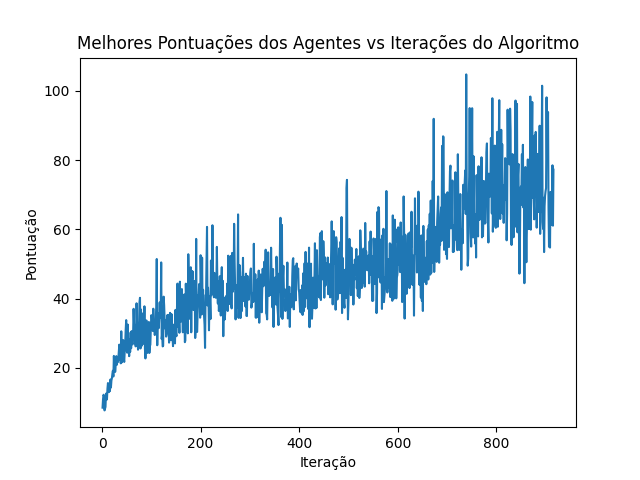
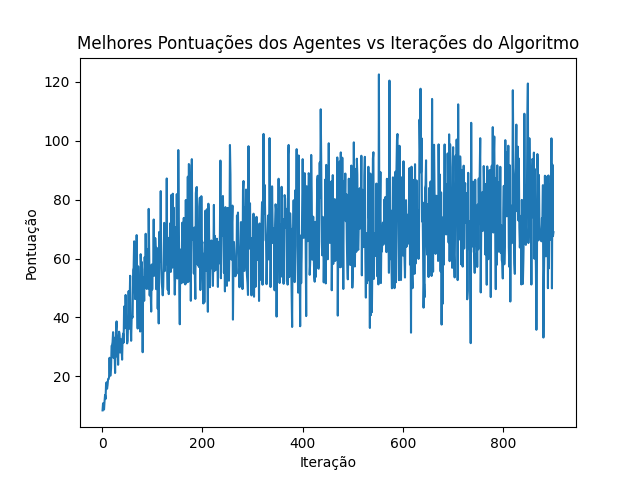
fix: Pesos da população inicializados em (-2, 2) trouxeram o melhor resultado até agora. Aproximadamente 122 de score alcançado no treino

diff --git a/batfly_algo.py b/batfly_algo.py
@@ -10,7 +10,7 @@ class BatFlyAlgorithm:
         self.population_size = population_size # Quantidade de morcegos
         self.d = d # Tamanho do array de pesos
         
-        self.solutions = np.random.uniform(-1, 1, size=(population_size, d)) # Criando vetor de soluções (100, 1475)
+        self.solutions = np.random.uniform(-2, 2, size=(population_size, d)) # Criando vetor de soluções (100, 1475)
         self.bats = np.zeros((self.population_size, self.d)) # Criando população de morcegos (100, 1475)
         self.v = np.zeros((self.population_size, self.d)) # Inicialização das velocidades dos morcegos (100, 1475)
         
@@ -26,20 +26,29 @@ class BatFlyAlgorithm:
         self.r_max = 1 # Pulse rate máximo
         self.r = np.random.uniform(0, self.r_max/4, self.population_size) # Inicialização do vetor de pulse rates
         self.A = np.random.uniform(1, 2, self.population_size) # Inicialização do vetor de loudness
+        
+        self._fitness_cache = None # Cache para guardar os scores das soluções
     
     def get_best_solution(self, objective_function, parallel : bool = True) -> float:
         if parallel:
             scores = np.array(objective_function(self.solutions))
         else:
             scores = np.array([objective_function(weights) for weights in self.solutions])
-        
+        self._fitness_cache = scores
         
         best_indx = np.argmax(scores)
-        self.best_solution = self.solutions[best_indx]
+        self.best_solution = self.solutions[best_indx].copy()
         
         return scores[best_indx]
     
     def search_solutions(self, objective_function, iteration : int):
+        # Preenchendo vetor de fitness cache apenas na primeira iteração
+        if self._fitness_cache is None:
+            self._fitness_cache = np.array(objective_function(self.solutions))
+        
+        # Atualiza as frequências
+        self.freq = np.random.uniform(self.f_min, self.f_max, self.population_size)
+        
         for i in range(self.population_size):
             if np.random.uniform(0, 1) < self.r[i]:
                 # Gera uma solução próxima a melhor solução
@@ -47,14 +56,20 @@ class BatFlyAlgorithm:
                 self.bats[i] = self.best_solution + np.mean(self.A) * epsilon
             else:
                 # Voa com o morcego
-                self.freq[i] = self.f_min + (self.f_max - self.f_min) * np.random.uniform(0, 1)
                 self.v[i] = self.v[i] + (self.solutions[i] - self.best_solution) * self.freq[i]
                 self.bats[i] = self.solutions[i] + self.v[i]
             
-            if objective_function(self.bats[i]) > objective_function(self.solutions[i]):
+            # Obtendo scores para comparar
+            bat_score = float(objective_function(self.bats[i]))
+            cur_score = float(self._fitness_cache[i])
+            
+            if bat_score > cur_score:
                 if np.random.uniform(0, 1) < self.A[i]:
                     # Solução aceita
                     self.solutions[i] = self.bats[i].copy()
+                    self._fitness_cache[i] = bat_score
+                    
+                    # Atualizando loudness e pulse rate
                     self.A[i] *= self.alpha
                     self.r[i] = self.r_max * (1 - np.exp(-self.gamma * iteration))
                     

diff --git a/main.py b/main.py
@@ -67,7 +67,7 @@ def game_fitness_function(population : np.ndarray) -> np.ndarray:
         for i, player in enumerate(game.players):
             total_scores[i] += player.score
     
-    avg_scores = total_scores/3
+    avg_scores = total_scores/NUM_GAMES
     
     return avg_scores
 
